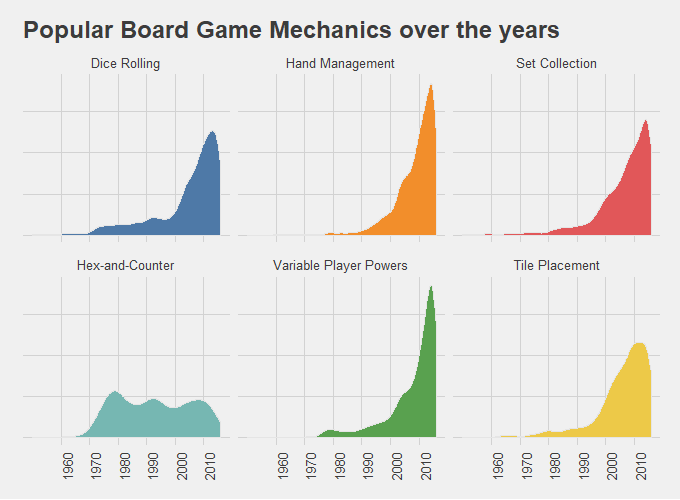
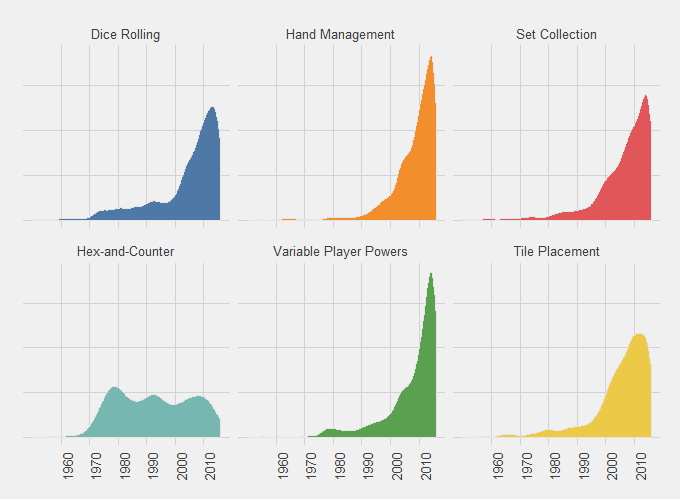
tidytuesday Y2W11 revision

diff --git a/content/project/tt_board_games/index.md b/content/project/tt_board_games/index.md
@@ -6,7 +6,7 @@ title = "Board Game Mechanics"
 date = 2019-03-12
 
 # Project summary to display on homepage.
-summary = ""
+summary = "Code walk through"
 
 # Tags: can be used for filtering projects.
 # Example: `tags = ["royalties", "pcr"]`
@@ -44,9 +44,10 @@ url_code = "https://github.com/dallinwebb/tidy_tuesday/blob/master/2019/11_board
   focal_point = "Smart"
 +++
 
-# Data Exploration Workflow
+# Code walk through
 
-Load in the usual packages, and ggthemes so I can use the fivethrityeight ggplot2 theme.
+Load in the usual packages, and ggthemes so I can use the fivethirtyeight ggplot2 theme.
+
 
 ```r
 library(tidyverse)
@@ -168,7 +169,7 @@ board_games %>% select(mechanic)
 
 <br>
 
-It looks like a board game can have multiple mechanic categories as we see here seperated by commas. What I need to do to analyze this type of data is force each row to have just one category while maintaining some contextual information. In this case I just want to keep a hold of the `year` column. Before we start, I'm just curious, what game had the most combinations of game mechanics?
+It looks like a board game can have multiple mechanic categories as we see here separated by commas. What I need to do to analyze this type of data is force each row to have just one category while maintaining some contextual information. In this case I just want to keep a hold of the `year` column. Before we start, I'm just curious, what game had the most combinations of game mechanics?
 
 
 ```r
@@ -197,9 +198,9 @@ board_games %>%
 
 <br>
 
-Hmm, 504, I'm not familier with it. Looks like settlers of catan after with a cash system after looking [here](https://boardgamegeek.com/image/2703890/504). Probably very complicated.
+Hmm, 504, I'm not familiar with it. Looks like settlers of catan after with a cash system after looking [here](https://boardgamegeek.com/image/2703890/504). Probably very complicated.
 
-Now on to the data manipulation. I'll use `strsplit()` in a `mutate()` to serparate the categories and puts each of them into a nested tibble.
+Now on to the data manipulation. I'll use `tidyr::separate_rows()` to separate the categories and puts each of them into their own row.
 
 
 ```r
@@ -207,37 +208,7 @@ mechanics_count <-
   board_games %>% 
   select(year_published, mechanic) %>% 
   drop_na(mechanic) %>% 
-  mutate(mechanic = strsplit(mechanic, ","))
-
-mechanics_count
-```
-
-```
-## # A tibble: 9,582 x 2
-##    year_published mechanic 
-##             <dbl> <list>   
-##  1           1986 <chr [5]>
-##  2           1981 <chr [1]>
-##  3           1998 <chr [4]>
-##  4           1992 <chr [4]>
-##  5           1964 <chr [3]>
-##  6           1989 <chr [1]>
-##  7           1978 <chr [4]>
-##  8           1993 <chr [1]>
-##  9           1998 <chr [2]>
-## 10           1998 <chr [4]>
-## # ... with 9,572 more rows
-```
-
-<br>
-
-To make this nested data useful, we simply use `unnest()`
-
-
-```r
-mechanics_count <- 
-  mechanics_count %>% 
-  unnest()
+  separate_rows(mechanic, sep = ",")
 
 mechanics_count
 ```
@@ -259,9 +230,9 @@ mechanics_count
 ## # ... with 23,940 more rows
 ```
 
-<br>
-
 Now we have all the game mechanics used with their corresponding year. Notice we went from 9.5K rows to 23.9K which is expected.
+
+<br>
 
 
 ```r
@@ -276,9 +247,7 @@ mechanics_count %>%
 ## [1] 51
 ```
 
-<br>
-
-Before we get into plotting, I need to find the top 6 most occuring game mechanics. Having a total of 51 different game mechanics would make my plot hard to understand so let's keep it simple. 
+Before we get into plotting, I need to find the top 6 most occurring game mechanics. Having a total of 51 different game mechanics would make my plot hard to understand so let's keep it simple. 
 
 
 ```r
@@ -299,7 +268,7 @@ top_mechanics
 
 <br>
 
-Perfet, now lets plot them using a faceted density plot.
+Perfect, now lets plot them using a faceted density plot.
 
 
 ```r
@@ -311,13 +280,13 @@ mechanics_count %>%
   facet_wrap(~mechanic, ncol = 3) +
   scale_x_continuous(breaks = seq(1960, 2010, 10)) +
   scale_fill_tableau() +
-  labs(title = "Most Occuring Board Game Mechanics over the years") +
+  labs(title = "Most Occurring Board Game Mechanics over the years") +
   theme_fivethirtyeight() +
   theme(axis.text.y = element_blank(),
         axis.text.x = element_text(angle = 90))
 ```
 
-<img src="/project/tt_board_games/board_game_mechanics_files/figure-html/unnamed-chunk-11-1.png" width="672" />
+<img src="/project/tt_board_games/board_game_mechanics_files/figure-html/unnamed-chunk-10-1.png" width="672" />
 
 All but one game mechanic seem to have rising in popularity rather quickly over the past two decades, while the Hex-and-Counter method has maintained a good share for for almost 40 years!
 

diff --git a/content/author/admin/_index.md b/content/author/admin/_index.md
@@ -76,4 +76,4 @@ interests = [
 
 Dallin Webb is a Data Analyst Intern at BYU Pathway Worldwide. His interests include using tools such as SQL, Power BI, R and the tidyverse libraries to identify and understand problems and opportunities.
 
-His work currently includes cleaning data in R and developing Power BI dashboards for the many great teams at BYU Pathway Worlwide. In his free time, he learns statistics, participates in [#tidytuesday](https://twitter.com/search?q=tidytuesday), and attends useR meetups.
+His work currently includes cleaning data in R and developing Power BI dashboards for the many great teams at BYU Pathway Worldwide. In his free time, he learns statistics, participates in [#tidytuesday](https://twitter.com/search?q=tidytuesday), and attends useR meetups.

diff --git a/content/home/experience.md b/content/home/experience.md
@@ -73,5 +73,5 @@ date_format = "Jan 2006"
   * Assisted faculty in building a data pipeline and dashboard framework to enable data driven insights
   * Developed Power BI dashboards while collaborating with stakeholders to uncover actionable insights
   * Analyzed Facebook page data showing effects of business decisions on certain social media metrics
-  * Embeded R scripts utilizing the qualtRics and tidyverse packages into Power BI reports to enable automated data refresh"""
+  * Embedded  R scripts utilizing the qualtRics and tidyverse packages into Power BI reports to enable automated data refresh"""
 +++
